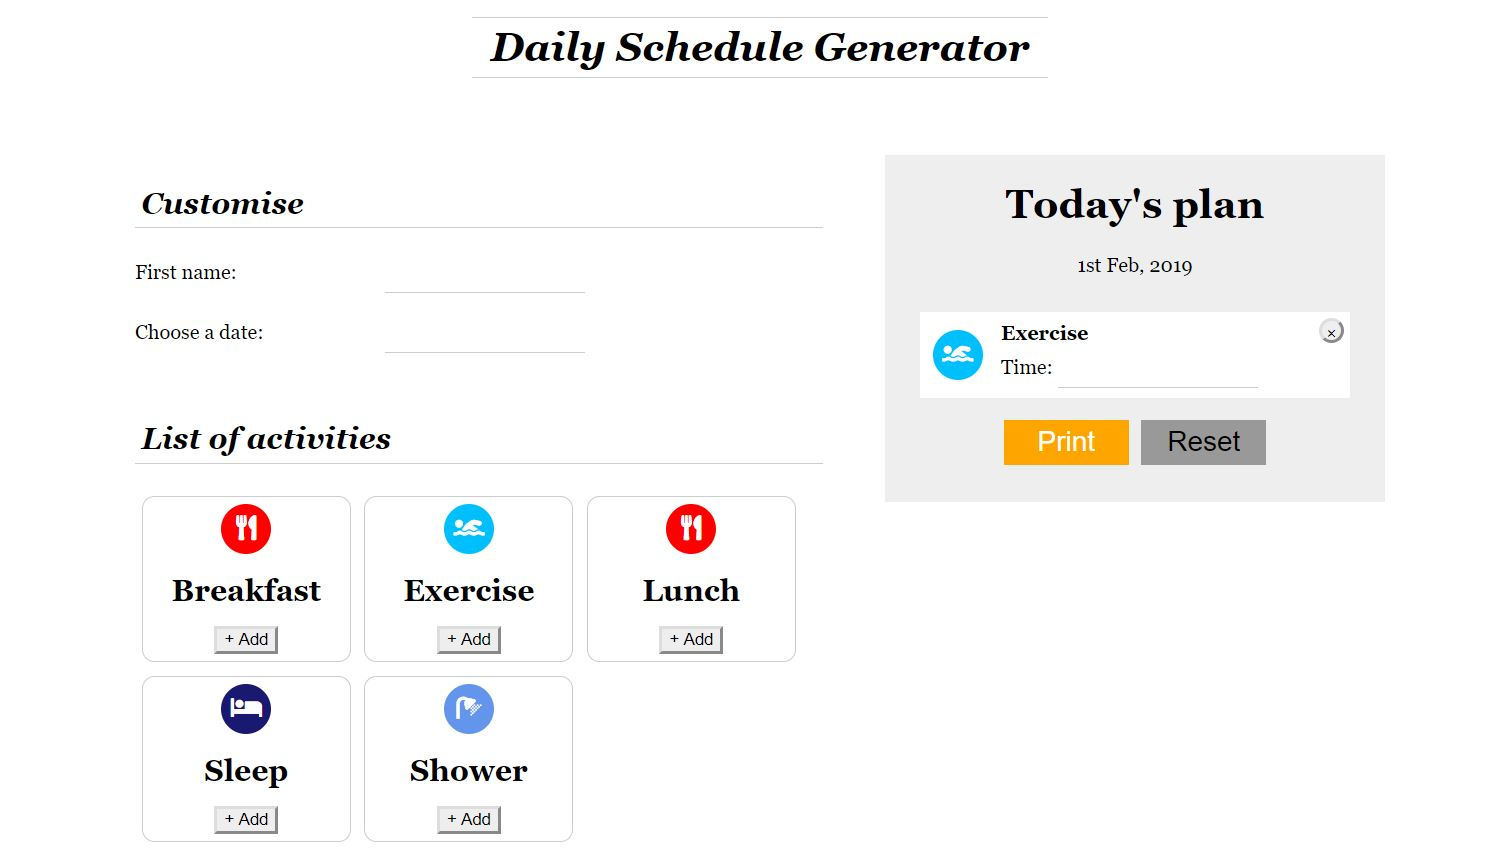
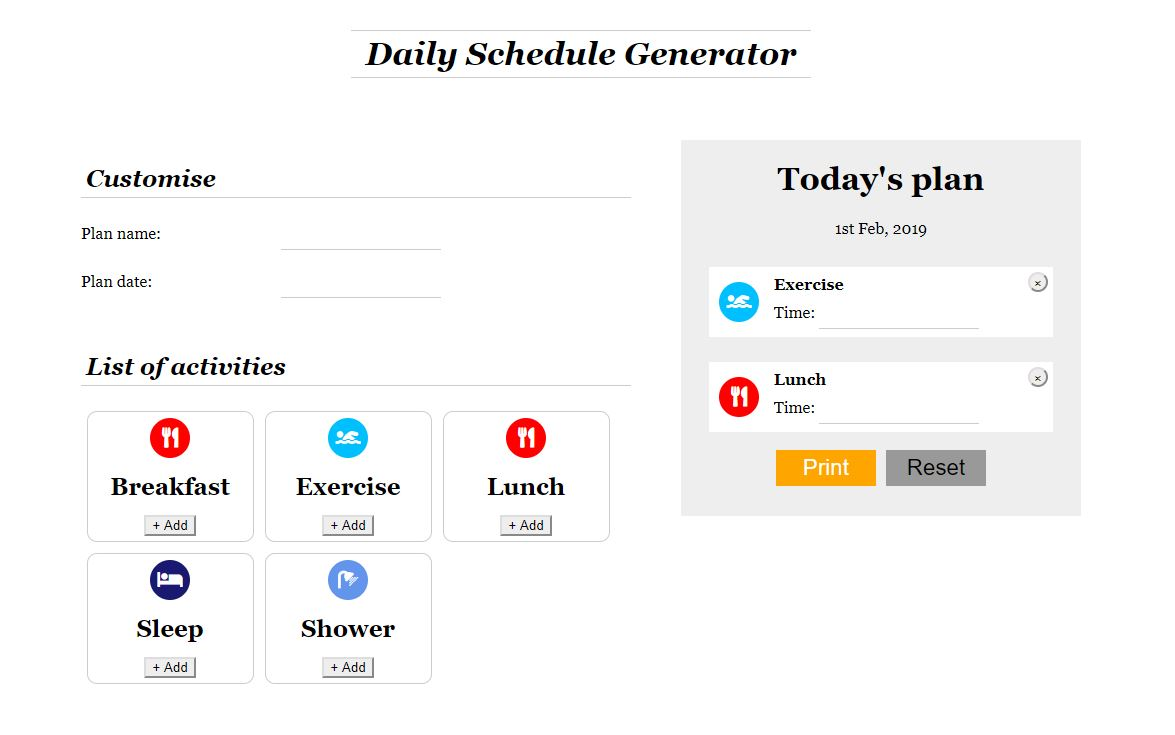
'plan name update'

diff --git a/src/app/pages/components/view-plan/view-plan.component.ts b/src/app/pages/components/view-plan/view-plan.component.ts
@@ -1,5 +1,5 @@
 import { Component, OnInit } from '@angular/core';
-import {CdkDragDrop, moveItemInArray} from '@angular/cdk/drag-drop';
+import { CdkDragDrop, moveItemInArray } from '@angular/cdk/drag-drop';
 import { ActivitiesService } from '../../services/activities.service';
 import { ActivityModel } from '../../data/activity.model';
 
@@ -9,6 +9,7 @@ import { ActivityModel } from '../../data/activity.model';
 })
 export class ViewPlanComponent implements OnInit {
   currentPlan: ActivityModel[];
+  planDetails: any;
 
   constructor(private activitesService: ActivitiesService) { }
 
@@ -23,7 +24,7 @@ export class ViewPlanComponent implements OnInit {
   print() {
     let printContent, printWindow;
     printContent = document.getElementById('daily-schedule').innerHTML;
-    printWindow  = window.open('', '_blank', 'top=0,left=0,height=100%,width=auto');
+    printWindow = window.open('', '_blank', 'top=0,left=0,height=100%,width=auto');
     printWindow.document.open();
     printWindow.document.write(`
       <html>
@@ -42,4 +43,8 @@ export class ViewPlanComponent implements OnInit {
 
   // https://stackoverflow.com/questions/41379274/print-html-template-in-angular-2-ng-print-in-angular-2
 
+
+  getPlanDetails(plan) {
+    this.planDetails = plan;
+  }
 }

diff --git a/src/app/pages/components/customise/customise.component.html b/src/app/pages/components/customise/customise.component.html
@@ -1,18 +1,20 @@
 <section id="customise">
   <h1>Customise</h1>
-  <form [formGroup]="modelForm" novalidate (ngSubmit)="onSubmit()">
+  <form [formGroup]="modelForm" novalidate >
     <!-- https://angular.io/guide/user-input#get-user-input-from-a-template-reference-variable -->
     <p>
-      <label for="firstName">Plan name: </label><input type="text" name="name">
+      <label for="firstName">Plan name: </label>
+      <input type="text" formControlName="name">
     </p>
 
     <!-- https://material.angular.io/components/datepicker -->
 
     <p>
       <label for="selectDate">Plan date: </label>
-      <input type="text" name="selectDate">
+      <input type="text" formControlName="selectDate">
     </p>
 
     <!-- https://material.angularjs.org/1.1.4/demo/colors -->
+
   </form>
 </section>

diff --git a/src/app/pages/components/customise/customise.component.ts b/src/app/pages/components/customise/customise.component.ts
@@ -1,4 +1,4 @@
-import { Component, OnInit } from '@angular/core';
+import { Component, OnInit, Output, EventEmitter } from '@angular/core';
 import { FormBuilder } from '@angular/forms';
 
 @Component({
@@ -7,14 +7,19 @@ import { FormBuilder } from '@angular/forms';
 })
 export class CustomiseComponent implements OnInit {
   modelForm: any;
+  @Output() planDetails: EventEmitter<any> = new EventEmitter<any>();
 
   constructor(private fb: FormBuilder) { }
 
   ngOnInit() {
     this.modelForm = this.fb.group({
-      name: "",
-      selectDate: ""
-    })
+      name: '',
+      selectDate: ''
+    });
+
+    this.modelForm.valueChanges.subscribe(v => {
+      this.planDetails.emit(v);
+    });
   }
 
 }

diff --git a/src/app/pages/components/view-plan/view-plan.component.html b/src/app/pages/components/view-plan/view-plan.component.html
@@ -1,5 +1,5 @@
 <div id="daily-schedule" cdkDropList class="example-list" (cdkDropListDropped)="drop($event)">
-  <h1>Today's plan</h1>
+  <h1 *ngIf="planDetails">{{planDetails.name}} plan</h1>
   <p>1st Feb, 2019</p>
   <!--today-->
   <div class="daily-schedule-list" *ngFor="let task of currentPlan" cdkDrag>
@@ -14,3 +14,5 @@
   <button id="btn-share" (click)="print()">Print</button>
   <button id="btn-reset">Reset</button>
 </div>
+
+<app-customise (planDetails)="getPlanDetails($event)"></app-customise>

diff --git a/src/app/pages/activities.component.html b/src/app/pages/activities.component.html
@@ -1,5 +1,5 @@
 
 
 <app-view-plan></app-view-plan>
-<app-customise></app-customise>
+<!-- <app-customise></app-customise> -->
 <app-list-activities [activities]="activities"></app-list-activities>
